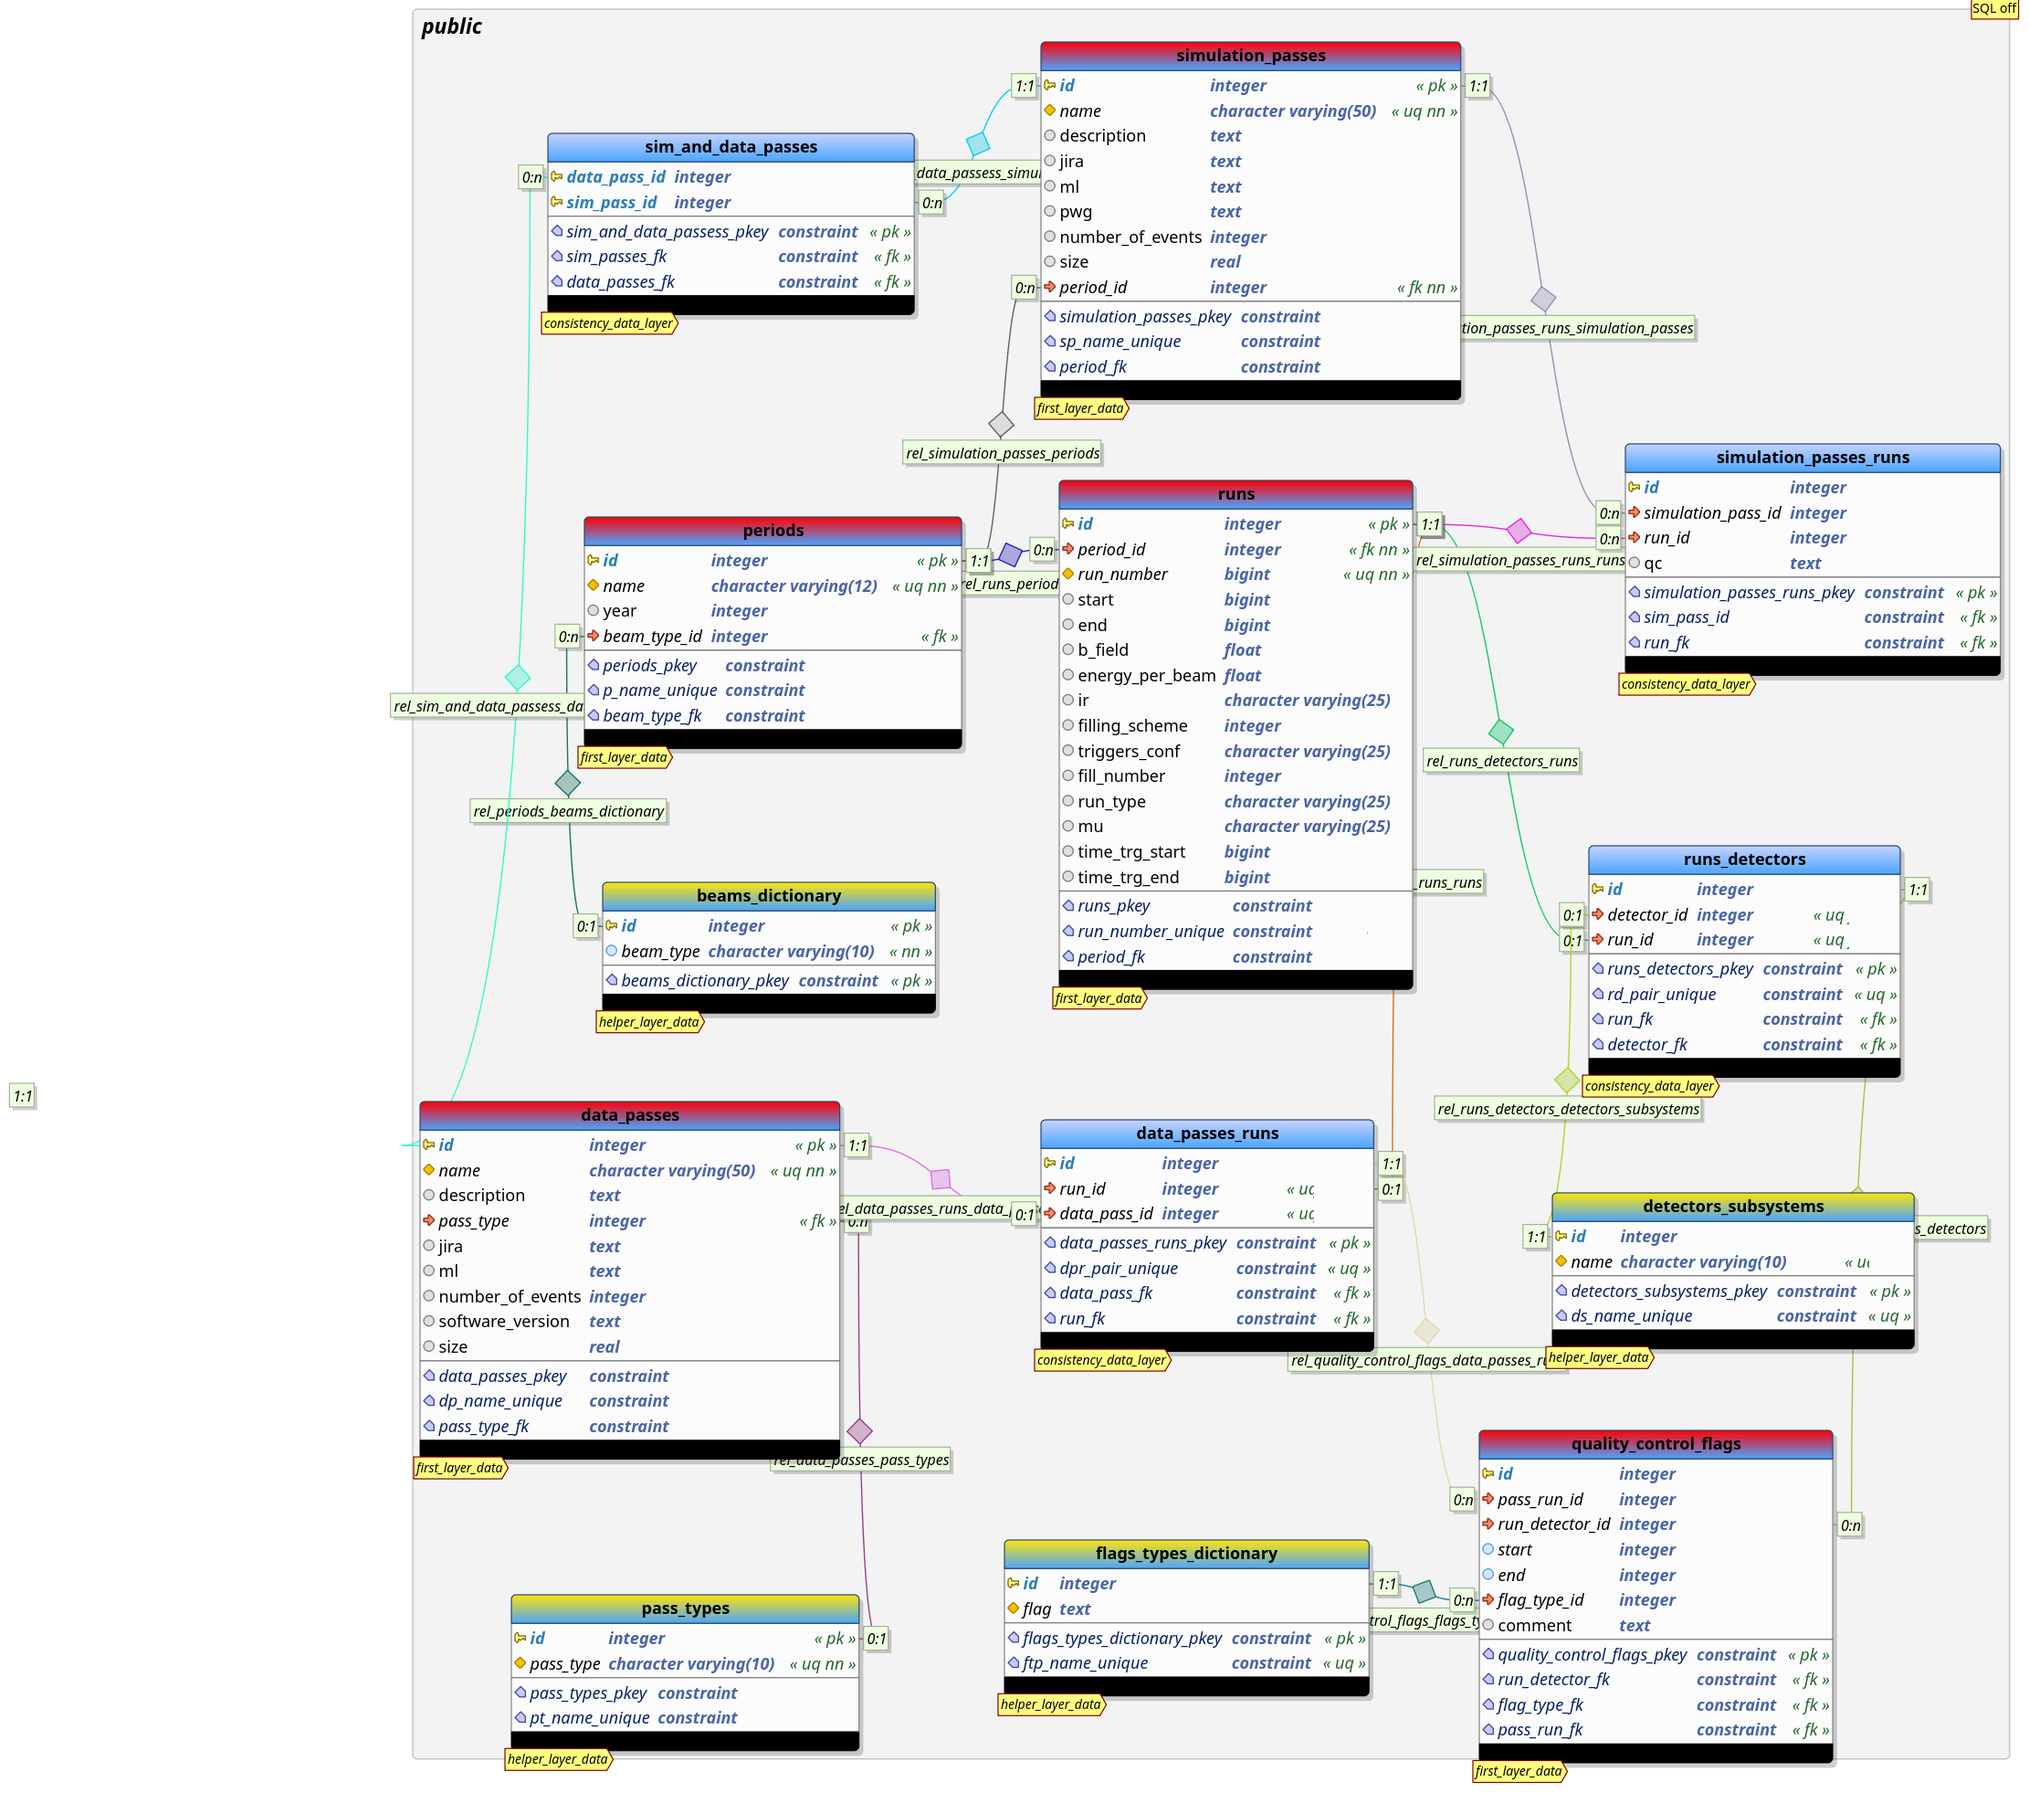
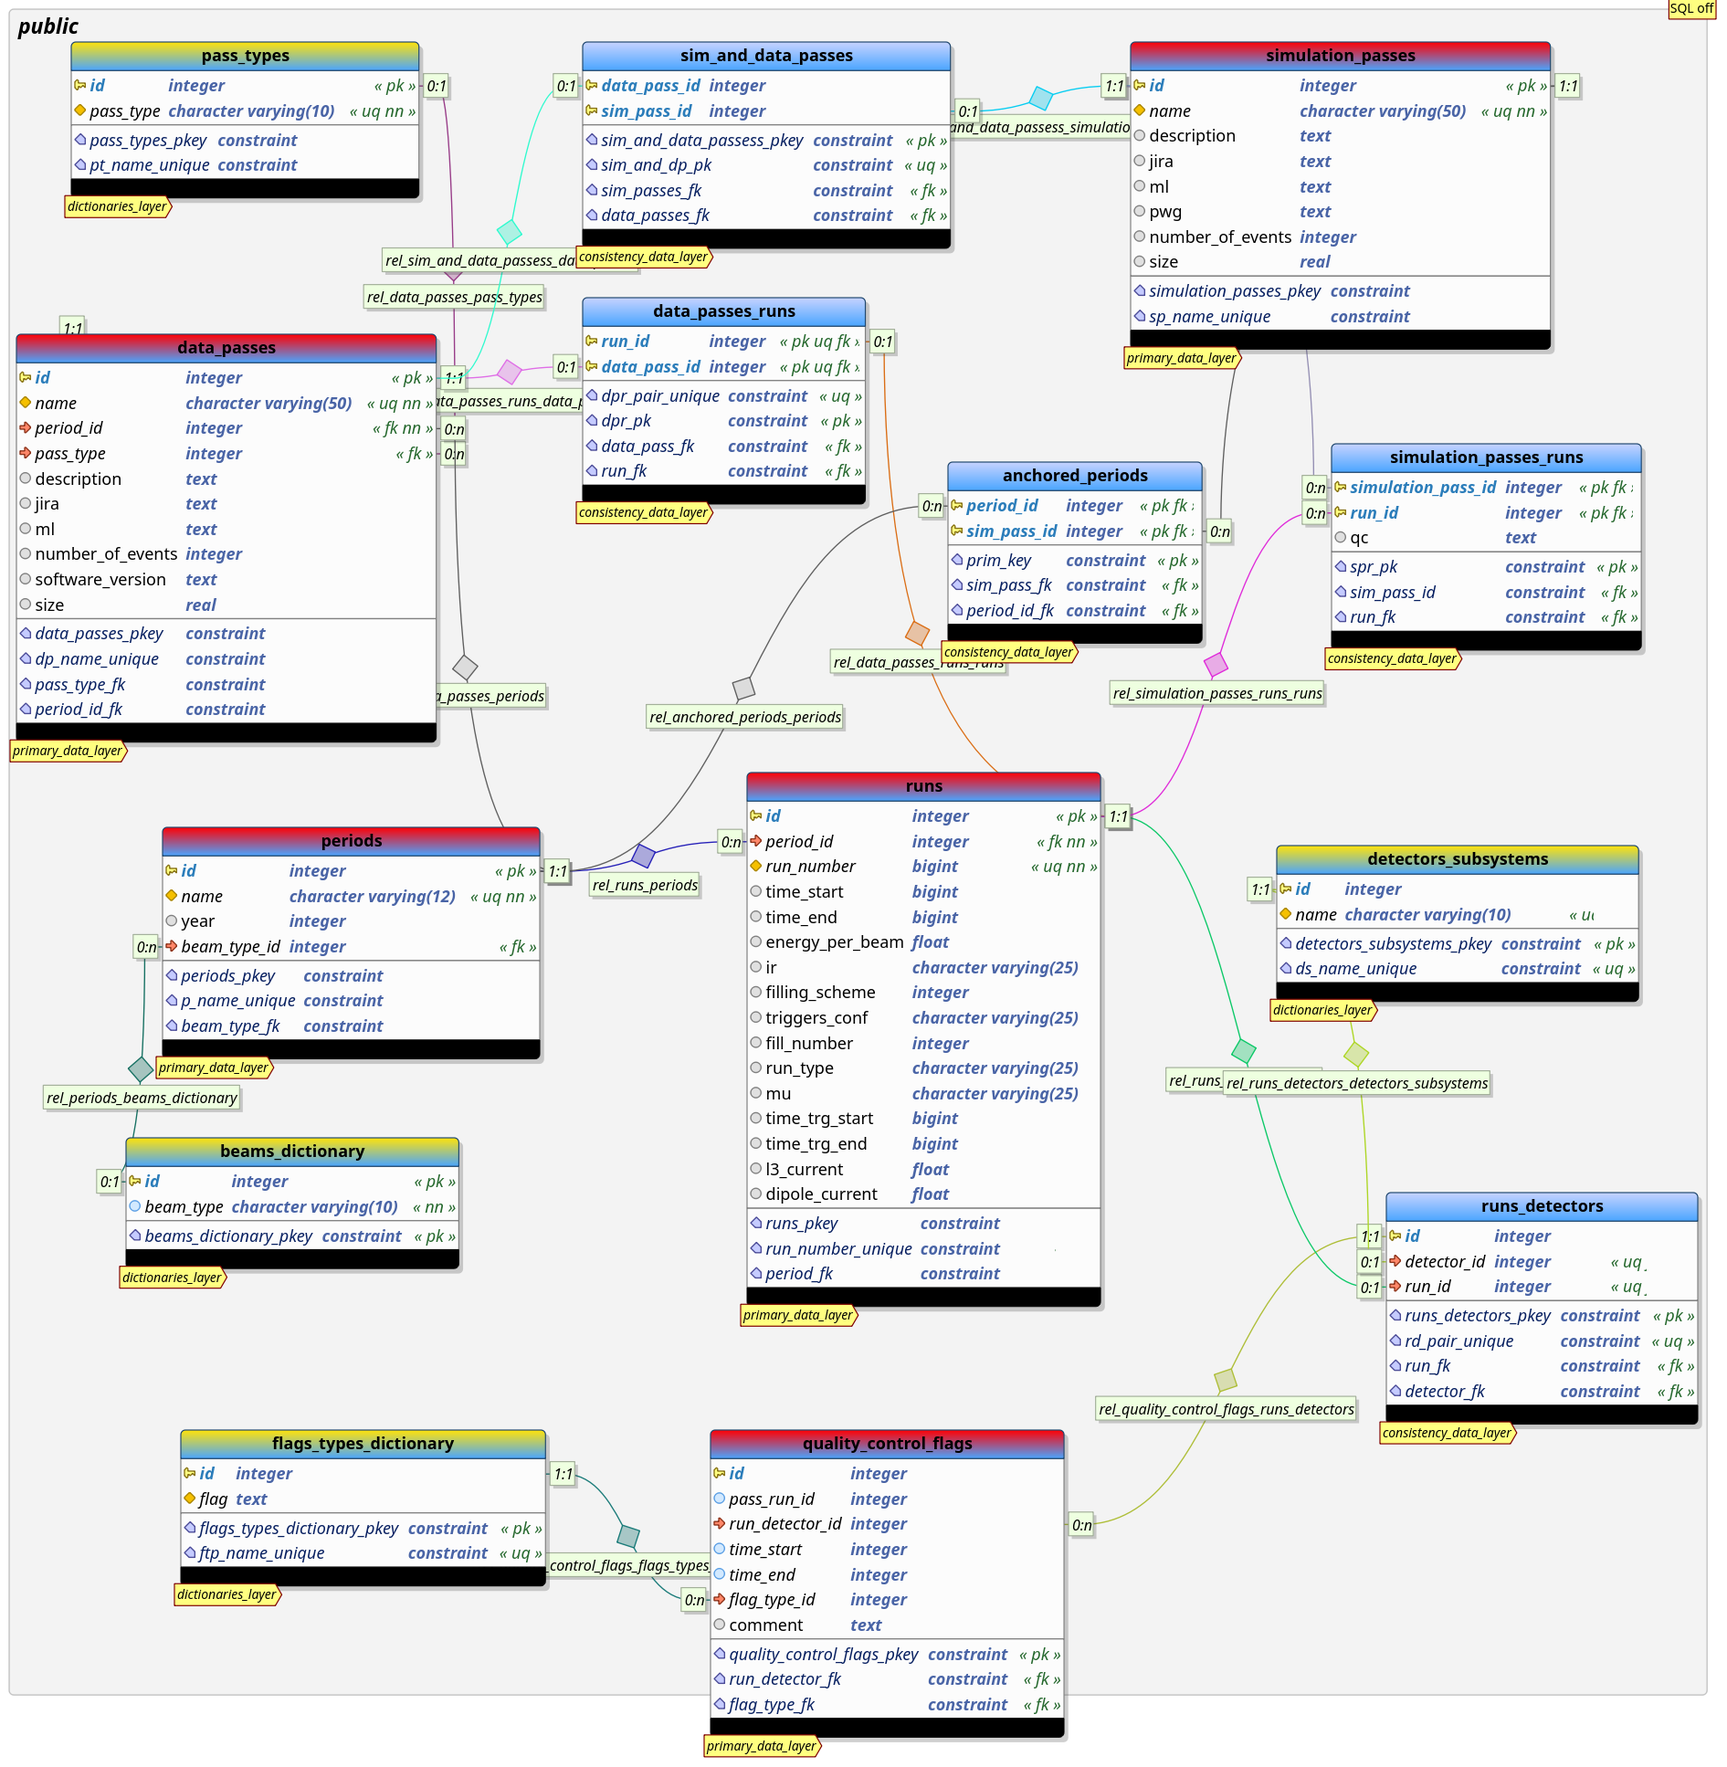
runs inserting update

Changed region(s): [[0.0, 0.0, 0.9984, 1.0], [0.9672, 0.0, 0.9984, 0.031]]

diff --git a/app/config/public.js b/app/config/public.js
@@ -1,6 +1,44 @@
 const matchExcludeType = 'match-exclude-type';
 const fromToType = 'from-to-type';
 
+const runsViewsFilteringTypes = {
+    name: matchExcludeType,
+    run_number: fromToType,
+    time_start: fromToType,
+    time_end: fromToType,
+    time_trg_start: fromToType,
+    time_trg_end: fromToType,
+    l3_current: fromToType,
+    dipole_current: fromToType,
+    energy_per_beam: fromToType,
+    ir: fromToType,
+    filling_scheme: fromToType,
+    triggers_conf: matchExcludeType,
+    fill_number: fromToType,
+    run_type: matchExcludeType,
+    mu: matchExcludeType,
+};
+
+const dataPassesViews = {
+    name: matchExcludeType,
+    description: matchExcludeType,
+    pass_type: matchExcludeType,
+    jira: matchExcludeType,
+    ml: matchExcludeType,
+    number_of_events: fromToType,
+    software_version: matchExcludeType,
+    size: fromToType,
+};
+
+const mcViews = {
+    name: matchExcludeType,
+    description: matchExcludeType,
+    jira: matchExcludeType,
+    ml: matchExcludeType,
+    pwg: matchExcludeType,
+    number_of_events: fromToType,
+};
+
 module.exports = { // Properties that will be provided to frontend in the public folder
     endpoints: {
         login: '/login/',
@@ -55,76 +93,12 @@ module.exports = { // Properties that will be provided to frontend in the public
                 beam: matchExcludeType,
                 energy: fromToType,
             },
-            runsPerPeriod: {
-                name: matchExcludeType,
-                run_number: fromToType,
-                start: fromToType,
-                end: fromToType,
-                b_field: matchExcludeType,
-                energy_per_beam: fromToType,
-                ir: fromToType,
-                filling_scheme: fromToType,
-                triggers_conf: matchExcludeType,
-                fill_number: fromToType,
-                run_type: matchExcludeType,
-                mu: matchExcludeType,
-                time_trg_start: fromToType,
-                time_trg_end: fromToType,
-            },
-
-            mc: {
-                name: matchExcludeType,
-                description: matchExcludeType,
-                jira: matchExcludeType,
-                ml: matchExcludeType,
-                pwg: matchExcludeType,
-                number_of_events: fromToType,
-            },
-            anchoredPerMC: {
-                name: matchExcludeType,
-                description: matchExcludeType,
-                pass_type: matchExcludeType,
-                jira: matchExcludeType,
-                ml: matchExcludeType,
-                number_of_events: fromToType,
-                software_version: matchExcludeType,
-                size: fromToType,
-            },
-            anchoragePerDatapass: {
-                name: matchExcludeType,
-                description: matchExcludeType,
-                jira: matchExcludeType,
-                ml: matchExcludeType,
-                pwg: matchExcludeType,
-                number_of_events: fromToType,
-            },
-            dataPasses: {
-                name: matchExcludeType,
-                description: matchExcludeType,
-                pass_type: matchExcludeType,
-                jira: matchExcludeType,
-                ml: matchExcludeType,
-                number_of_events: fromToType,
-                software_version: matchExcludeType,
-                size: fromToType,
-            },
-
-            runsPerDataPass: {
-                name: matchExcludeType,
-                run_number: fromToType,
-                start: fromToType,
-                end: fromToType,
-                b_field: matchExcludeType,
-                energy_per_beam: fromToType,
-                ir: fromToType,
-                filling_scheme: fromToType,
-                triggers_conf: matchExcludeType,
-                fill_number: fromToType,
-                run_type: matchExcludeType,
-                mu: matchExcludeType,
-                time_trg_start: fromToType,
-                time_trg_end: fromToType,
-            },
+            runsPerPeriod: runsViewsFilteringTypes,
+            mc: mcViews,
+            anchoredPerMC: dataPassesViews,
+            anchoragePerDatapass: mcViews,
+            dataPasses: dataPassesViews,
+            runsPerDataPass: runsViewsFilteringTypes,
 
             flags: {
                 start: fromToType,

diff --git a/app/public/components/rct/rctData/headersSpecials.js b/app/public/components/rct/rctData/headersSpecials.js
@@ -12,6 +12,44 @@
  * or submit itself to any jurisdiction.
  */
 
+const runsViews = {
+    name: 'Name',
+    run_number: 'Run number',
+    time_start: 'Start time',
+    time_end: 'End time',
+    time_trg_start: 'Trg. start',
+    time_trg_end: 'Trg. end',
+    energy_per_beam: 'Energy per beam',
+    ir: 'IR',
+    filling_scheme: 'Filling scheme',
+    triggers_conf: 'Triggers conf.',
+    fill_number: 'Fill number',
+    run_type: 'Run type',
+    mu: 'MU',
+    l3_current: 'L3 curr.',
+    dipole_current: 'dipole_current',
+};
+
+const dpViews = {
+    name: 'Name',
+    description: 'Description',
+    pass_type: 'Type',
+    jira: 'Jira',
+    ml: 'ML',
+    number_of_events: 'Events number',
+    software_version: 'Soft. version',
+    size: 'Size',
+};
+
+const mcViews = {
+    name: 'Name',
+    description: 'Description',
+    jira: 'Jira',
+    ml: 'ML',
+    pwg: 'PWG',
+    number_of_events: 'Events number',
+};
+
 export const headersSpecials = {
     periods: {
         name: 'Name',
@@ -19,78 +57,12 @@ export const headersSpecials = {
         beam: 'Beam type',
         energy: 'Energy',
     },
-    runsPerPeriod: {
-        name: 'Name',
-        run_number: 'Run number',
-        start: 'Start time',
-        end: 'End time',
-        b_field: 'B field',
-        energy_per_beam: 'Energy per beam',
-        ir: 'IR',
-        filling_scheme: 'Filling scheme',
-        triggers_conf: 'Triggers conf.',
-        fill_number: 'Fill number',
-        run_type: 'Run type',
-        mu: 'MU',
-        time_trg_start: 'Trg. start',
-        time_trg_end: 'Trg. end',
-    },
-
-    mc: {
-        name: 'Name',
-        description: 'Description',
-        jira: 'Jira',
-        ml: 'ML',
-        pwg: 'PWG',
-        number_of_events: 'Events number',
-    },
-
-    dataPasses: {
-        name: 'Name',
-        description: 'Description',
-        pass_type: 'Type',
-        jira: 'Jira',
-        ml: 'ML',
-        number_of_events: 'Events number',
-        software_version: 'Soft. version',
-        size: 'Size',
-    },
-
-    anchoredPerMC: {
-        name: 'Name',
-        description: 'Description',
-        pass_type: 'Type',
-        jira: 'Jira',
-        ml: 'ML',
-        number_of_events: 'Events number',
-        software_version: 'Soft. version',
-        size: 'Size',
-    },
-    anchoragePerDatapass: {
-        name: 'Name',
-        description: 'Description',
-        jira: 'Jira',
-        ml: 'ML',
-        pwg: 'PWG',
-        number_of_events: 'Events number',
-    },
-
-    runsPerDataPass: {
-        name: 'Name',
-        run_number: 'Run number',
-        start: 'Start time',
-        end: 'End time',
-        b_field: 'B field',
-        energy_per_beam: 'Energy per beam',
-        ir: 'IR',
-        filling_scheme: 'Filling scheme',
-        triggers_conf: 'Triggers conf.',
-        fill_number: 'Fill number',
-        run_type: 'Run type',
-        mu: 'MU',
-        time_trg_start: 'Trg. start',
-        time_trg_end: 'Trg. end',
-    },
+    runsPerPeriod: runsViews,
+    mc: mcViews,
+    dataPasses: dpViews,
+    anchoredPerMC: dpViews,
+    anchoragePerDatapass: mcViews,
+    runsPerDataPass: runsViews,
 
     flags: {
         start: 'Start time',

diff --git a/app/lib/database/viewsDefinitions.js b/app/lib/database/viewsDefinitions.js
@@ -21,17 +21,18 @@ const runs_per_period_view = (query) => `
             --r.id
             --p.name, 
             r.run_number, 
-            r.start, 
-            r.end AS "end", 
-            r.b_field, 
+            r.time_start, 
+            r.time_end, 
+            r.time_trg_start, 
+            r.time_trg_end,
             r.energy_per_beam, 
             r.ir, 
             r.filling_scheme, 
             r.triggers_conf,
             r.fill_number,
             r.mu, 
-            r.time_trg_start, 
-            r.time_trg_end
+            r.l3_current,
+            r.dipole_current
         FROM runs AS r
             INNER JOIN periods AS p
             ON p.id = r.period_id

diff --git a/app/public/components/rct/rctData/pagesCellsSpecials.js b/app/public/components/rct/rctData/pagesCellsSpecials.js
@@ -135,8 +135,8 @@ pagesCellsSpecials[pagesNames.runsPerPeriod] = {
         '',
         `/?page=${pagesNames.flags}&index=${item.run_number}&${dataReqParams.rowsOnSite}=50&${dataReqParams.site}=1`,
     ),
-    start: (mode, item) => dateFormatter(item.start),
-    end: (mode, item) => dateFormatter(item.end),
+    time_start: (mode, item) => dateFormatter(item.time_start),
+    time_end: (mode, item) => dateFormatter(item.time_end),
     time_trg_start: (mode, item) => dateFormatter(item.time_trg_start),
     time_trg_end: (mode, item) => dateFormatter(item.time_trg_end),
 };

diff --git a/app/public/components/common/header.js b/app/public/components/common/header.js
@@ -24,7 +24,7 @@ export default function header(model) {
                 onclick: () => model.logout(),
             }, iconPerson()),
             ' ',
-            h('span.f4.gray', 'Run Condition Table'),
+            h('span.f4.gray', { onclick: () => model.router.go('/', true) }, 'Run Condition Table'),
         ]),
         h('.w-50', headerSpecific(model)),
         h('.w-10', functionalities(model)),

diff --git a/app/lib/alimonitor-services/BookkeepingService.js b/app/lib/alimonitor-services/BookkeepingService.js
@@ -121,8 +121,8 @@ class BookkeepingService extends AbstractServiceSynchronizer {
             ${d.period}, 
             ${d.time_trg_start}, 
             ${d.time_trg_end}, 
-            ${d.start}, 
-            ${d.end}, 
+            ${d.time_start}, 
+            ${d.time_end}, 
             ${d.run_type},
             ${d.fill_number},
             ${d.energy}, 
